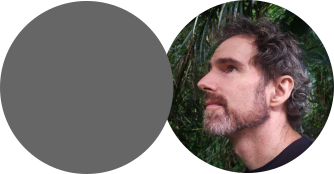
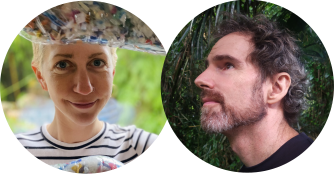
Fix Register look

diff --git a/includes/register-inc.php b/includes/register-inc.php
@@ -58,13 +58,14 @@ margin-bottom: auto;"
 
 @media screen and (max-width: 7691px) {
 .profile-images img {
-width:100px
+width:175px
 ;padding:15px;
-margin-top:-30px;
+margin-top:-10px;
 }
 
 .profile-names {
-width:100px
+width:175px;
+text-align:right;
 }
 
 .training-title-box {
@@ -85,7 +86,7 @@ width:400px;
 .profile-images img {
 width:250px;
 padding:15px;
-margin-top:-40px;
+margin-top:-20px;
 }
 
 .profile-names {
